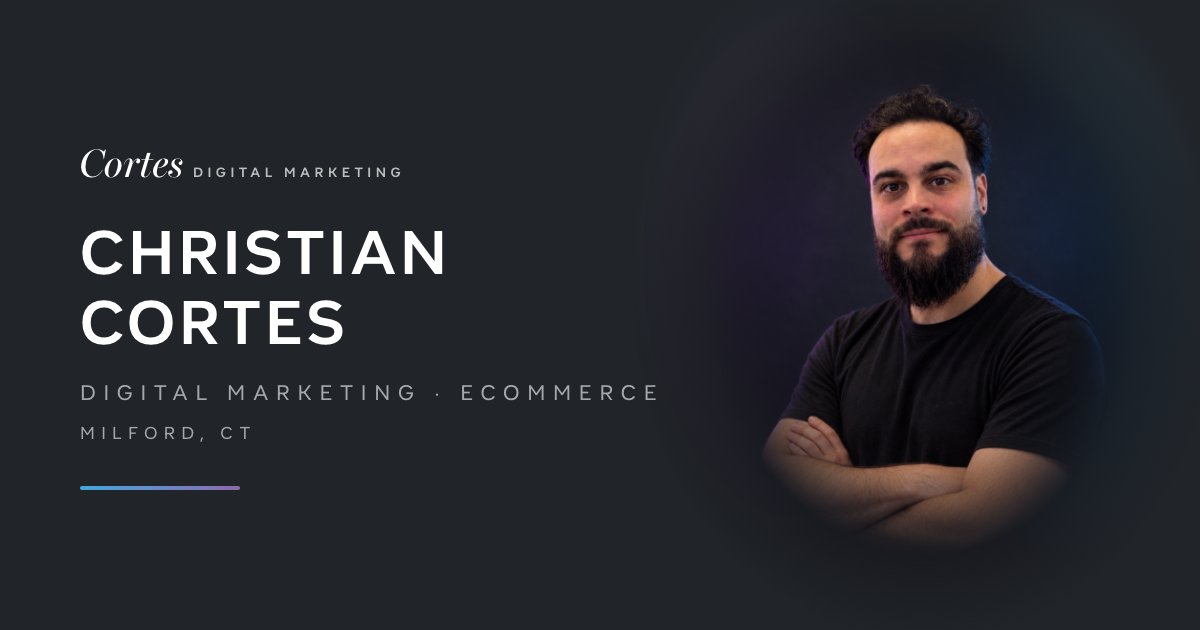
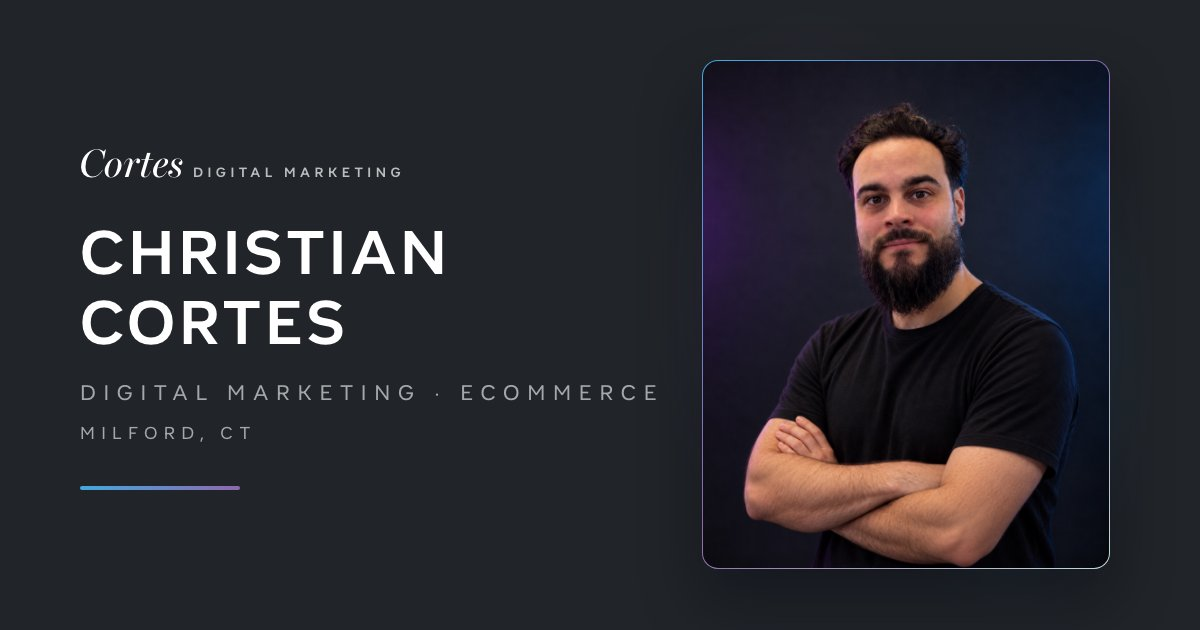
Show hero portrait as a framed card instead of a feathered fade

diff --git a/css/site.css b/css/site.css
@@ -172,26 +172,29 @@ html:not(.gsap-ready) .hero__headline .char {
   width: min(100%, 460px);
 }
 
-/* The photo has its own dark studio backdrop. A dark pool behind it (matched to
-   that backdrop) plus a feathered mask dissolves the frame edge into the page. */
+/* Framed portrait card: gradient hairline border + soft brand glow behind */
 .cdm-hero__portrait::before {
   content: '';
   position: absolute;
-  inset: -12% -18%;
+  inset: -8%;
   background:
-    radial-gradient(closest-side, rgba(13, 14, 20, 0.9) 40%, rgba(13, 14, 20, 0.5) 70%, transparent),
-    radial-gradient(closest-side at 28% 42%, rgba(142, 104, 173, 0.22), transparent),
-    radial-gradient(closest-side at 74% 44%, rgba(67, 169, 223, 0.2), transparent);
+    radial-gradient(closest-side at 30% 45%, rgba(142, 104, 173, 0.28), transparent),
+    radial-gradient(closest-side at 72% 55%, rgba(67, 169, 223, 0.26), transparent);
+  filter: blur(20px);
   pointer-events: none;
 }
 
-.cdm-hero__portrait img {
+.cdm-hero__portrait-frame {
   position: relative;
+  padding: 1px;
+  border-radius: var(--radius-lg);
+  background: var(--color-accent-gradient-text);
+  box-shadow: 0 30px 60px rgba(6, 10, 18, 0.45);
+}
+
+.cdm-hero__portrait img {
   width: 100%;
-  -webkit-mask-image:
-    radial-gradient(ellipse 50% 50% at 50% 46%, black 58%, transparent 100%);
-  mask-image:
-    radial-gradient(ellipse 50% 50% at 50% 46%, black 58%, transparent 100%);
+  border-radius: calc(var(--radius-lg) - 1px);
 }
 
 /* ── Intro ── */

diff --git a/index.html b/index.html
@@ -78,7 +78,9 @@
           </div>
         </div>
         <div class="cdm-hero__portrait" data-animate="scale-in">
-          <img src="images/opt/hero-portrait-900.jpg" srcset="images/opt/hero-portrait-600.jpg 600w, images/opt/hero-portrait-900.jpg 900w, images/opt/hero-portrait-1122.jpg 1122w" sizes="(max-width: 767px) 62vw, 460px" alt="Christian Cortes, arms crossed, in a black t-shirt" width="900" height="1124" fetchpriority="high">
+          <div class="cdm-hero__portrait-frame">
+            <img src="images/opt/hero-portrait-900.jpg" srcset="images/opt/hero-portrait-600.jpg 600w, images/opt/hero-portrait-900.jpg 900w, images/opt/hero-portrait-1122.jpg 1122w" sizes="(max-width: 767px) 62vw, 460px" alt="Christian Cortes, arms crossed, in a black t-shirt" width="900" height="1124" fetchpriority="high">
+          </div>
         </div>
       </div>
     </section>
